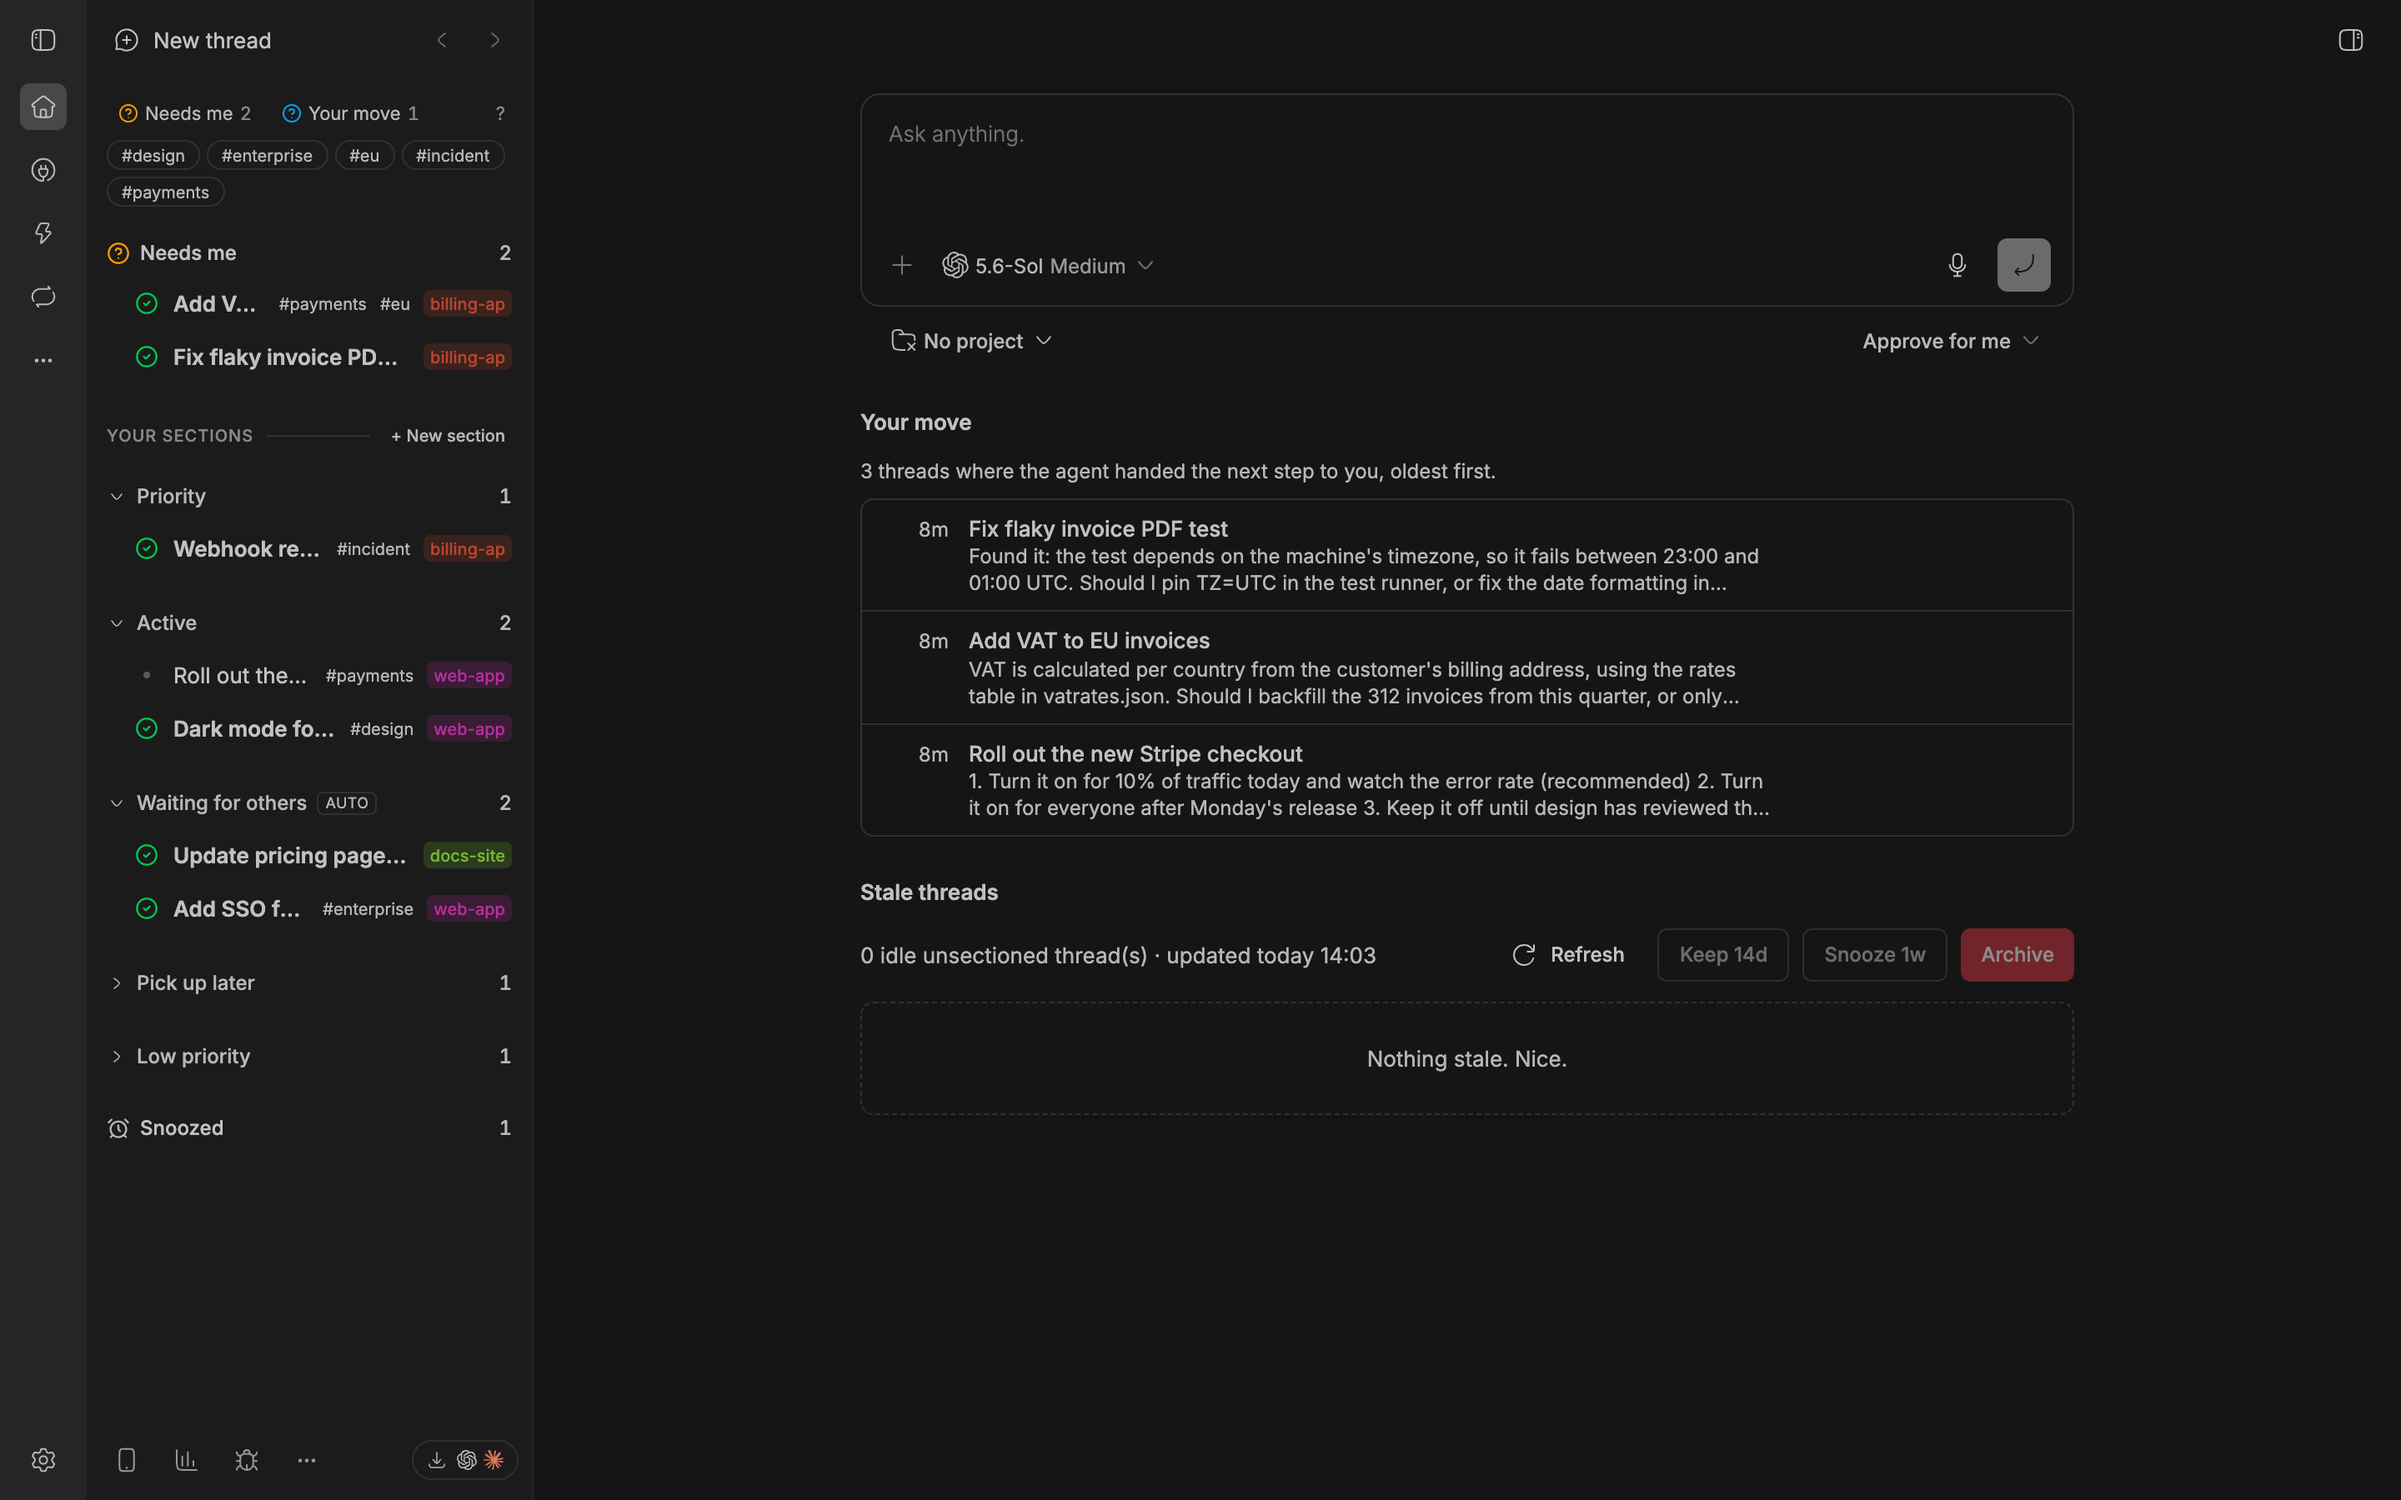
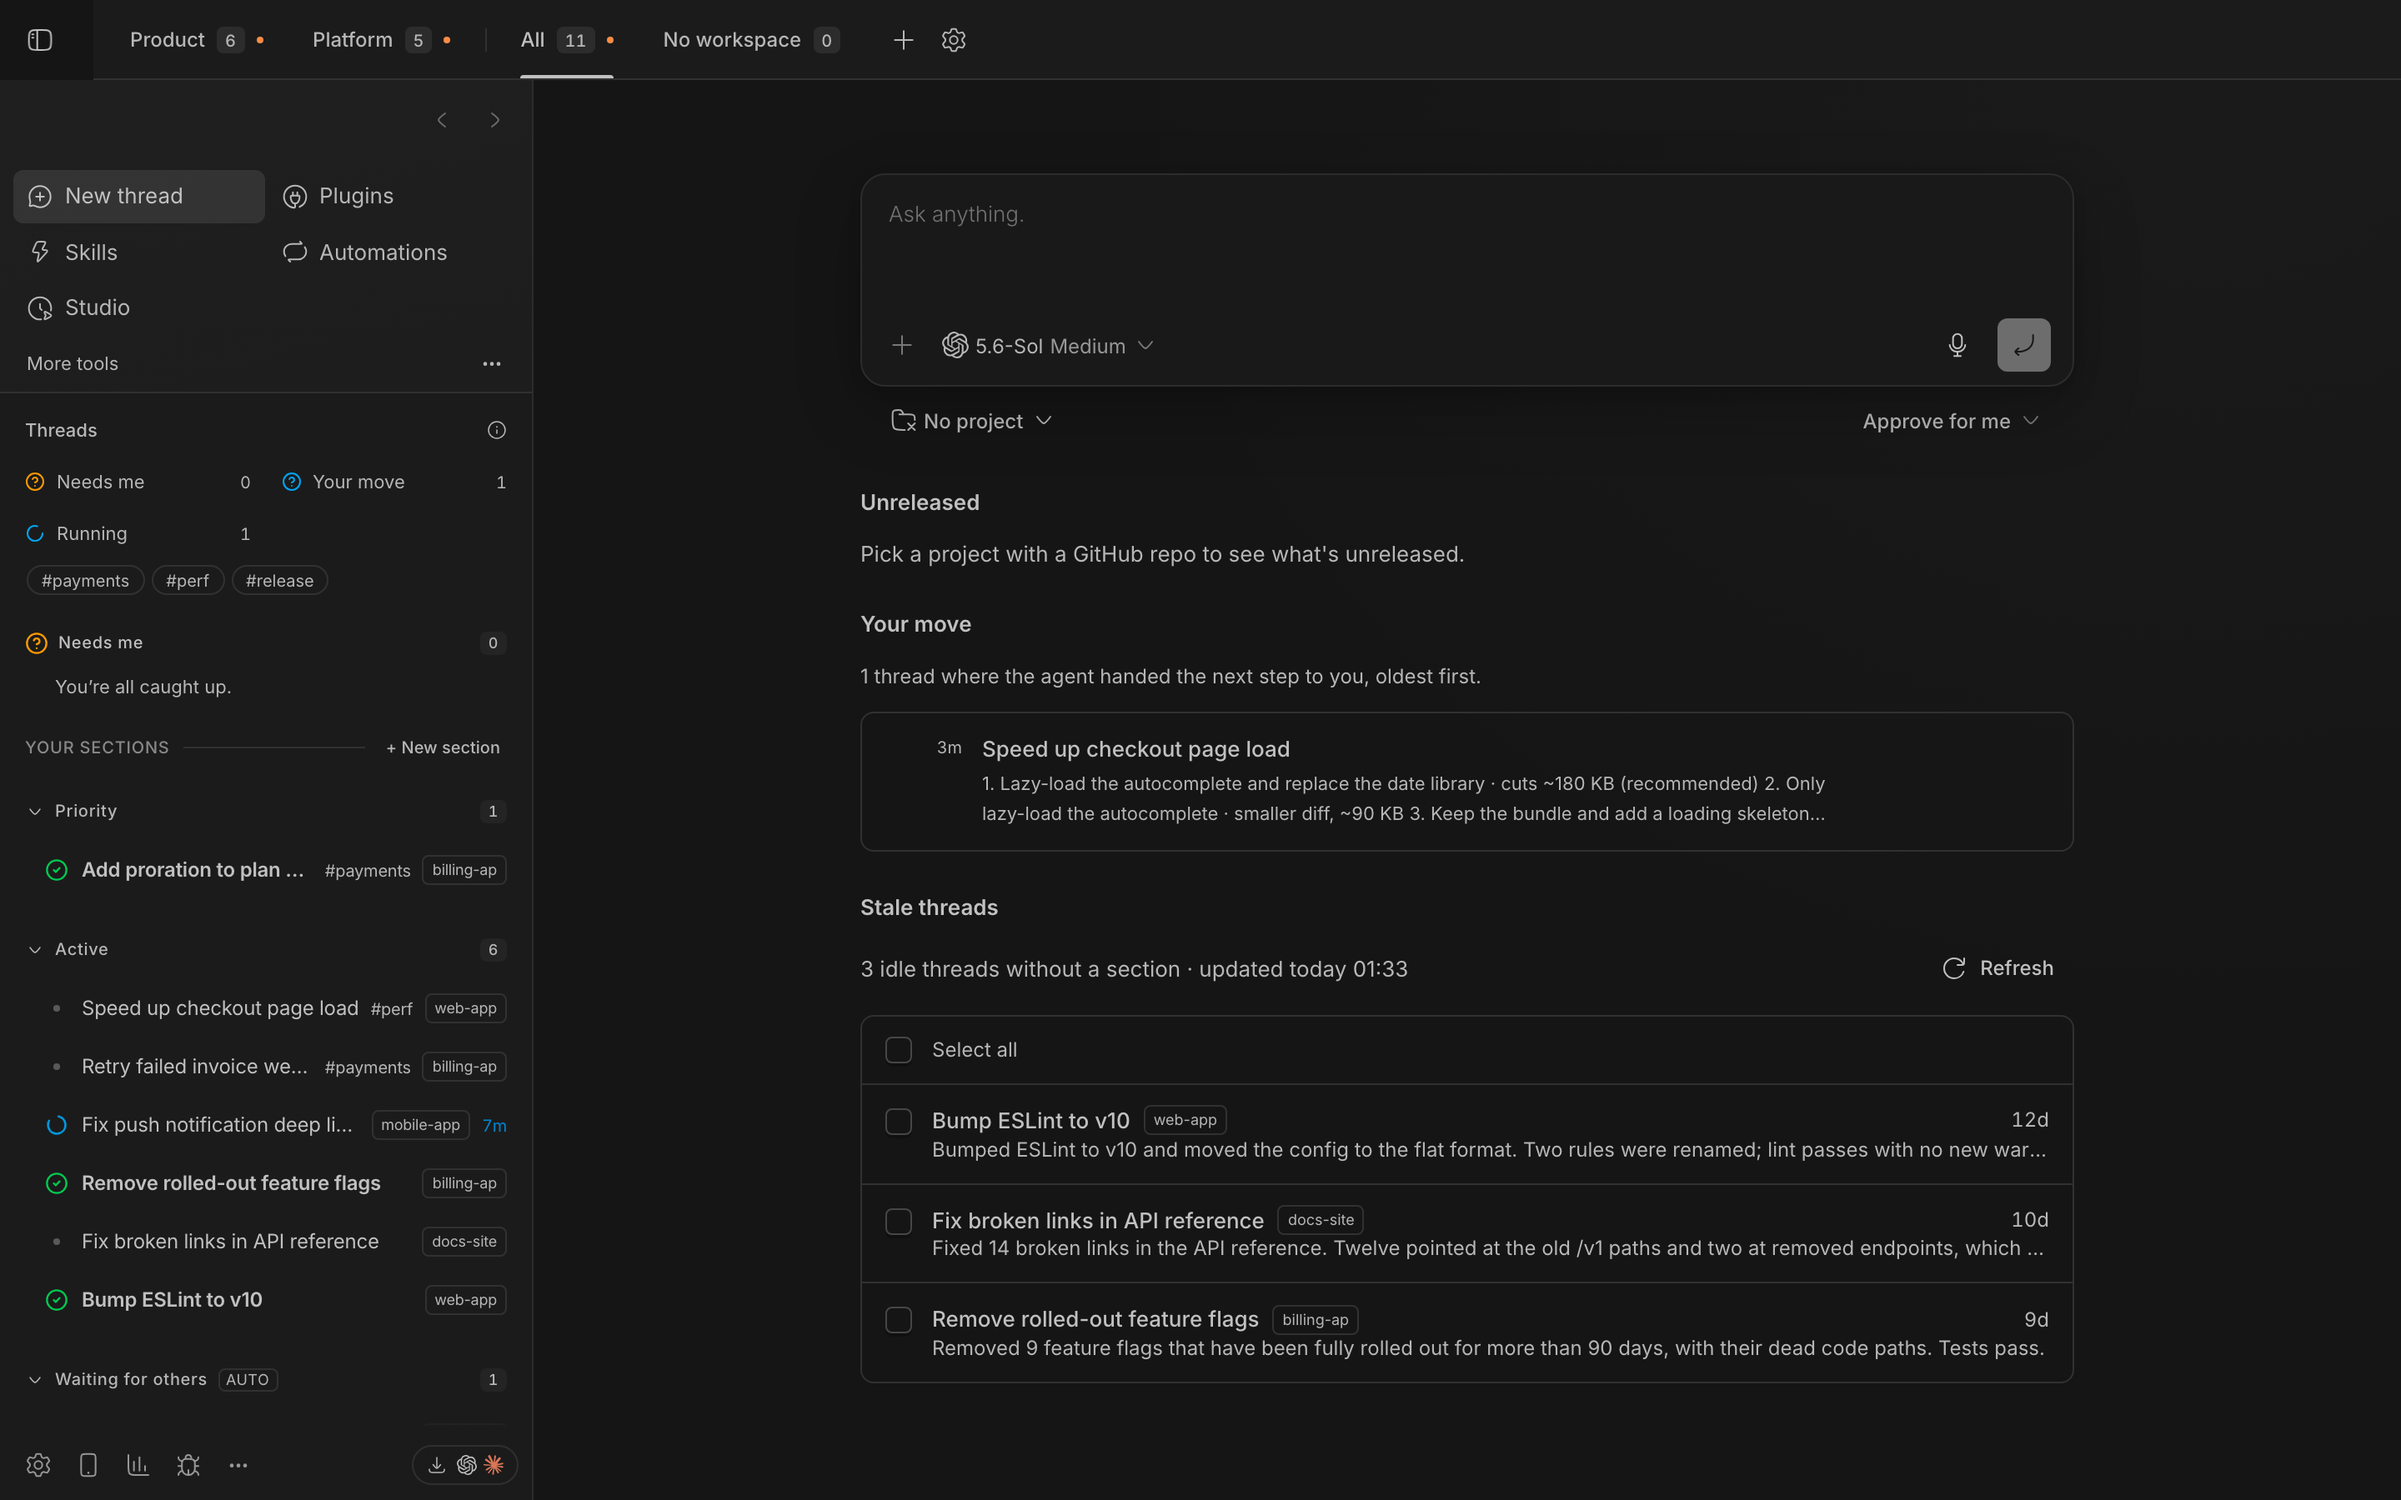
Update jb-flow listing for v0.1.3 (#657)
Automated note from a Claude Code agent, posted on behalf of the marketplace maintainer.

Reviewed under the maintainer admission policy. Exact selected plugin sources install and load, required marketplace format passes, and no malware or author self-addition to New and Notable was found. Current-head CI verified green.

diff --git a/overview/jb-flow.md b/overview/jb-flow.md
@@ -1,24 +1,26 @@
 ## What you get
 
+- **Workspaces.** Your own workspace tabs across the top of BB group projects, threads, sections and plugin navigation; All and No workspace keep everything reachable. Move a thread from its context menu or manage membership in settings. Tab badges show thread totals with a separate attention dot, and each workspace remembers its last thread and section order. Workspaces change what navigation shows, not what plugins run or can access.
+- **⌘K palette.** BB's Search threads key opens one search over threads, messages, PRs, workspaces, projects and actions. An empty query shows what needs you, what's running, PRs to act on and recent threads; wide windows preview the selected thread. Tab on any thread lists its actions: reply to a decision, snooze (`tomorrow`, `3d`), move, tag, watch CI or archive. `>`, `#`, `@` and `/` (files) narrow the scope, `is:needs` and `is:running` filter, and the last row starts a new thread with what you typed. Turn it off to give the key back to BB.
 - **Triage thread list.** A replacement sidebar. Threads blocked on a prompt, a permission or a question to you sit in *Needs me* at the top. Below that are numbered lanes (Priority, Active, Waiting for others, Pick up later, Low priority), with a project chip and tags on each row. On a focused row, `1`–`5` moves it to a lane, `s` snoozes, `t` tags, `e` archives and `j`/`k` move up and down.
 - **Waiting for others fills itself.** A thread whose agent says it is waiting on a person, or whose open PRs all wait on a reviewer, goes there and comes back to Active when its next turn no longer waits on anyone.
 - **Snooze.** A clock button, `bb jb-flow snooze`, or the `snooze_thread` agent tool hides a thread until `2h`, `tomorrow`, `mon` or a date. It comes back unread, and an optional note is sent to the agent as its wake-up instruction.
 - **Home page sections.** *Your move* lists threads that handed the next step to you, oldest first. *Stale threads* lists unfiled threads idle for 7+ days, with archive, keep and snooze in bulk. *Unreleased* lists merged PRs not yet released.
-- **PRs without polling.** Every PR a thread opens is linked to it, in any repo, and stacked PRs are shown as a stack. Agents call `wait_for_ci` and end their turn; the plugin checks GitHub every 2 minutes and messages the thread when checks finish (with the failed log), reviews arrive or the PR merges. `pr_status` gives an agent all of its PRs in one call.
+- **PRs without polling.** Every PR a thread opens is linked to it, in any repo, and stacked PRs are shown as a stack. Agents call `wait_for_ci` and end their turn; the plugin checks GitHub every 2 minutes and messages the thread when checks finish (with the failed log), reviews arrive or the PR merges. A thread that is still working isn't messaged until it goes idle. `pr_status` gives an agent all of its PRs in one call.
 - **Scripts and dev servers.** A side panel lists the checkout's `package.json` scripts. Pinned commands can have fallback slots on other ports, so parallel worktrees don't collide, and a browser tab opens once the port responds.
 - **Decision buttons.** When an agent ends with numbered options, they appear as one-click replies above the composer.
 
 ## Optional
 
-Off until you turn them on in the plugin settings:
+Each can be switched in the plugin settings:
 
-- Send "continue" after a Claude Code usage limit resets.
-- Cmd+N opens the new thread in a split.
-- Plans awaiting approval open expanded.
+- A restyled bb interface, a thread monitor with the agent's latest status report, and expanded, resizable plan reviews are on by default.
+- Send "continue" after a Claude Code usage limit resets: per thread in the thread monitor, with a default in settings (off).
 - Wake threads waiting for a release once a release PR merges and its workflows finish (per-project JSON config).
 
 ## Requirements
 
+- BB with Plugin SDK 0.6.54 or later; early 0.46.1 builds need an update for workspace navigation.
 - The GitHub CLI (`gh`), logged in with `gh auth login`, for all PR, CI and release features. Repos must be on github.com. The thread list, snooze and digests work without it.
 - Installing JB Flow makes the Triage list your sidebar (while Settings → Appearance → Thread list is on Automatic); switch back there at any time. The list offers to create its lane sections on first use.
 - Several bb APIs used here are experimental and may change between bb releases.
